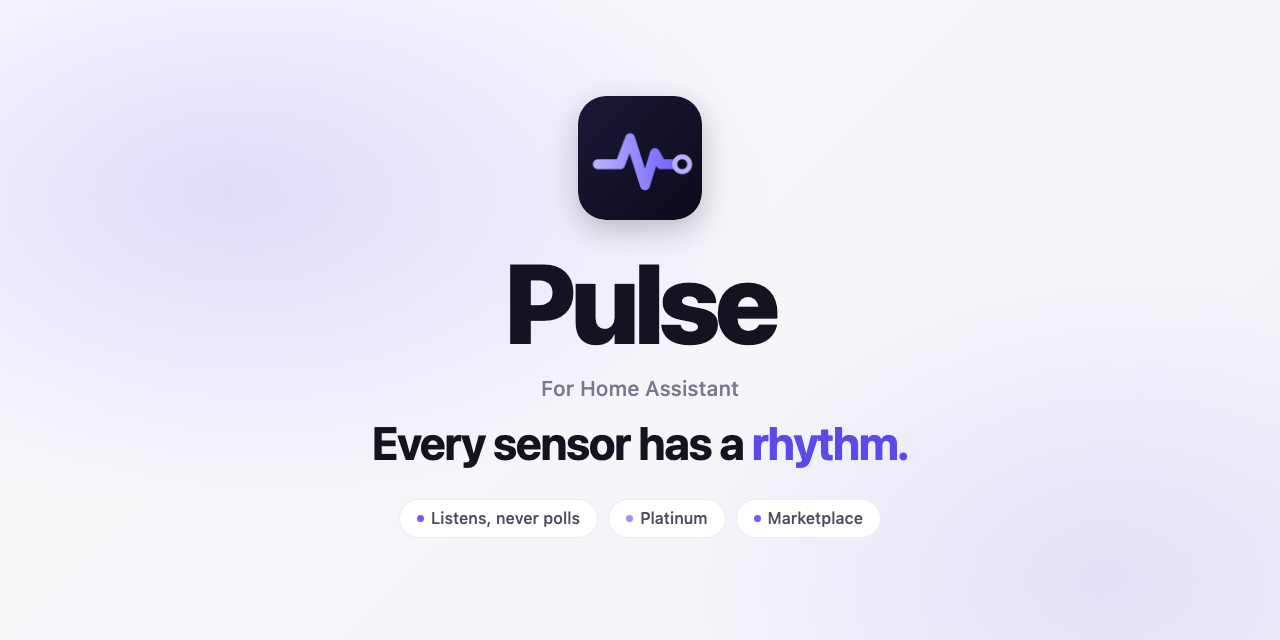
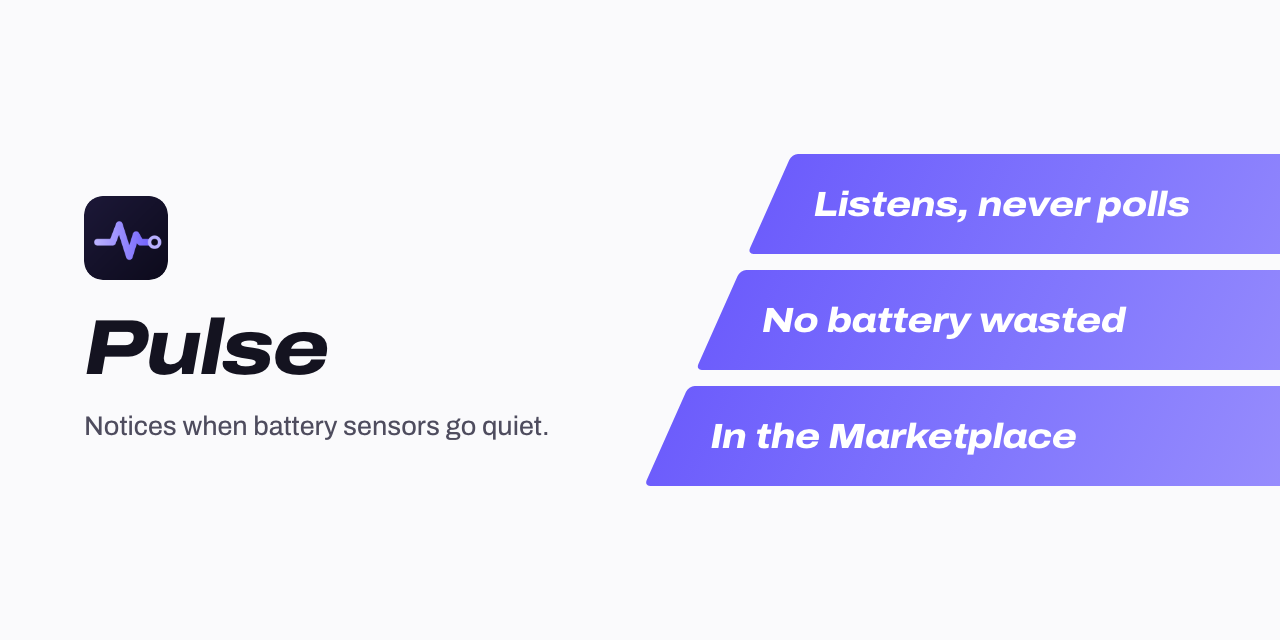
README and project page in the v2 design
Title banner with the lanes, Install and Set up as one Get started, shared
footer. The page loads theme v2 (Archivo from sh1ft-w.github.io), hero left
with the three key facts on the lanes.

Claude-Session: https://claude.ai/code/session_01TLmTtZLAvnS1BJ3w9tzxXq

diff --git a/docs/index.html b/docs/index.html
@@ -13,9 +13,9 @@
 <meta property="og:description" content="Notices when a battery device goes quiet. Before you do.">
 <meta property="og:image" content="https://sh1ft-w.github.io/pulse/images/readme-title-social.png">
 <link rel="icon" href="images/logo.png">
-<!-- Shared SH1FT-W design (tokens, glass navigation, light/dark, DE/EN, reveal) -->
-<link rel="stylesheet" href="https://sh1ft-w.github.io/theme/v1/theme.css">
-<script src="https://sh1ft-w.github.io/theme/v1/theme.js"></script>
+<!-- Shared SH1FT-W design, version 2 (tokens, Archivo, navigation, light/dark, DE/EN, the lanes) -->
+<link rel="stylesheet" href="https://sh1ft-w.github.io/theme/v2/theme.css">
+<script src="https://sh1ft-w.github.io/theme/v2/theme.js"></script>
 <style>
 /* Pulse-Palette (Violett wie im Panel); Dunkel folgt dem System oder dem Schalter oben rechts */
 :root {
@@ -26,11 +26,10 @@
   --ok: #2E9E6B; --ok-tint: rgba(46,158,107,0.12); --bad: #D64545; --warn: #D18A1C;
   --line: rgba(20,19,32,0.1); --chip: rgba(20,19,32,0.06);
   --glass: rgba(250,250,252,0.68); --glass-line: rgba(20,19,32,0.08);
-  --shadow: 0 1px 2px rgba(20,19,32,0.05), 0 12px 32px -14px rgba(20,19,32,0.2);
-  --shadow-lg: 0 2px 6px rgba(20,19,32,0.05), 0 48px 100px -36px rgba(40,30,90,0.4);
-  --mono: ui-monospace, "SF Mono", Menlo, Consolas, monospace;
-  --radius: 28px; --radius-lg: 40px; --gutter: clamp(16px, 5vw, 48px); --max: 1180px;
-  --blob-1: rgba(109,93,252,0.26); --blob-2: rgba(167,139,250,0.3); --blob-3: rgba(147,197,253,0.3);
+  --font: "Archivo", -apple-system, BlinkMacSystemFont, system-ui, sans-serif; --display: var(--font);
+  --mono: ui-monospace, "SF Mono", Menlo, monospace;
+  --lane-a: #6D5DFC; --lane-b: #A78BFA;
+  --radius: 20px; --radius-lg: 28px; --gutter: clamp(16px, 5vw, 48px); --max: 1200px;
 }
 @media (prefers-color-scheme: dark) { :root:not([data-theme="light"]) {
   --bg: #0E0D14; --bg-2: #15131E; --card: #1A1826; --card-2: #211E30;
@@ -39,9 +38,6 @@
   --ok: #5FD39A; --ok-tint: rgba(95,211,154,0.14); --bad: #FF6B6B; --warn: #F0B35A;
   --line: rgba(226,222,240,0.1); --chip: rgba(226,222,240,0.08);
   --glass: rgba(26,24,38,0.62); --glass-line: rgba(255,255,255,0.08);
-  --shadow: 0 14px 34px -16px rgba(0,0,0,0.6);
-  --shadow-lg: 0 48px 100px -36px rgba(0,0,0,0.75), 0 0 80px -20px rgba(139,124,255,0.25);
-  --blob-1: rgba(139,124,255,0.2); --blob-2: rgba(184,168,255,0.14); --blob-3: rgba(96,165,250,0.14);
 } }
 :root[data-theme="dark"] {
   --bg: #0E0D14; --bg-2: #15131E; --card: #1A1826; --card-2: #211E30;
@@ -50,9 +46,6 @@
   --ok: #5FD39A; --ok-tint: rgba(95,211,154,0.14); --bad: #FF6B6B; --warn: #F0B35A;
   --line: rgba(226,222,240,0.1); --chip: rgba(226,222,240,0.08);
   --glass: rgba(26,24,38,0.62); --glass-line: rgba(255,255,255,0.08);
-  --shadow: 0 14px 34px -16px rgba(0,0,0,0.6);
-  --shadow-lg: 0 48px 100px -36px rgba(0,0,0,0.75), 0 0 80px -20px rgba(139,124,255,0.25);
-  --blob-1: rgba(139,124,255,0.2); --blob-2: rgba(184,168,255,0.14); --blob-3: rgba(96,165,250,0.14);
 }
 
 a { color: var(--accent-ink); text-decoration: none; }
@@ -61,8 +54,8 @@ a:hover { text-decoration: underline; text-underline-offset: 3px; }
 .narrow { max-width: 760px; }
 p { margin: 0; }
 .muted { color: var(--ink-2); }
-.center { text-align: center; }
-.center .lead { margin-left: auto; margin-right: auto; max-width: 680px; }
+.center .lead { max-width: 680px; }
+body { font-family: var(--font); }
 .mono { font-family: var(--mono); font-size: 0.92em; }
 code { font-family: var(--mono); font-size: 0.9em; background: var(--chip); padding: 2px 6px; border-radius: 6px; overflow-wrap: anywhere; }
 
@@ -70,68 +63,61 @@ code { font-family: var(--mono); font-size: 0.9em; background: var(--chip); padd
 
 /* Knöpfe */
 .btn {
-  display: inline-flex; align-items: center; justify-content: center; gap: 8px; height: 48px; padding: 0 24px; border-radius: 999px;
+  display: inline-flex; align-items: center; justify-content: center; gap: 8px; height: 48px; padding: 0 24px; border-radius: 12px;
   font-family: inherit; font-size: 15px; font-weight: 600; line-height: 1; letter-spacing: -0.005em;
-  background: linear-gradient(135deg, var(--accent), var(--accent-2)); color: #fff; border: 0; cursor: pointer;
-  box-shadow: 0 12px 28px -12px var(--accent-glow); transition: transform .2s ease, filter .2s ease, box-shadow .2s ease;
+  background: var(--accent); color: var(--on-accent); border: 0; cursor: pointer;
+  box-shadow: none; transition: transform .2s ease, filter .2s ease;
 }
-.btn:hover { text-decoration: none; filter: brightness(1.05); transform: translateY(-1px); box-shadow: 0 16px 32px -12px var(--accent-glow); }
-.btn.ghost { background: var(--card); color: var(--ink); box-shadow: var(--shadow); }
+.btn:hover { text-decoration: none; filter: brightness(1.05); transform: translateY(-1px); }
+.btn.ghost { background: var(--chip); color: var(--ink); }
 .btn.small { height: 36px; padding: 0 16px; font-size: 14px; }
 
 /* Schrift */
-.eyebrow { display: inline-flex; align-items: center; gap: 8px; font-size: 13px; font-weight: 600; letter-spacing: 0.08em; text-transform: uppercase; color: var(--accent-ink); margin: 0 0 18px; }
-.eyebrow::before { content: ""; width: 8px; height: 8px; border-radius: 50%; background: var(--accent); box-shadow: 0 0 0 4px var(--accent-tint); }
-h1, h2, h3 { margin: 0; color: var(--ink); font-weight: 800; }
-h1 { font-size: clamp(46px, 8.4vw, 104px); line-height: 0.96; letter-spacing: -0.045em; }
-h2 { font-size: clamp(34px, 5.2vw, 62px); line-height: 1.02; letter-spacing: -0.04em; }
-h3 { font-size: 21px; line-height: 1.2; letter-spacing: -0.02em; font-weight: 700; }
-.grad { background: linear-gradient(135deg, var(--accent), var(--accent-2)); -webkit-background-clip: text; background-clip: text; color: transparent; }
+.eyebrow { font-size: 16px; font-weight: 650; color: var(--accent-ink); margin: 0 0 12px; }
+h1, h2, h3 { margin: 0; color: var(--ink); font-family: var(--display); font-weight: 800; text-wrap: balance; }
+h1 { font-size: clamp(44px, 6vw, 84px); line-height: 1; font-stretch: 118%; font-style: italic; letter-spacing: -0.025em; }
+h2 { font-size: clamp(30px, 3.8vw, 48px); line-height: 1.08; font-weight: 750; font-stretch: 112%; letter-spacing: -0.02em; }
+h3 { font-size: 21px; line-height: 1.2; letter-spacing: -0.02em; font-weight: 700; font-stretch: 106%; }
 .lead { font-size: clamp(19px, 2.1vw, 23px); line-height: 1.45; color: var(--ink-2); letter-spacing: -0.012em; margin: 24px 0 0; }
 .lead strong { color: var(--ink); font-weight: 600; }
 
 /* Abschnitte */
 section { padding: clamp(72px, 9vw, 128px) 0; position: relative; }
 section.tint { background: var(--bg-2); }
-.head { margin-bottom: clamp(40px, 5.5vw, 64px); }
-.split h2 { font-size: clamp(32px, 4.4vw, 56px); }
+.head { margin-bottom: clamp(40px, 5.5vw, 64px); max-width: 50em; }
 
 /* Bildrahmen */
-.shot { border-radius: var(--radius); overflow: hidden; background: var(--card); box-shadow: var(--shadow-lg); position: relative; }
-.shot::after { content: ""; position: absolute; inset: 0; border-radius: inherit; box-shadow: inset 0 0 0 1px var(--glass-line); pointer-events: none; }
+.shot { border-radius: var(--radius); overflow: hidden; background: var(--card); position: relative; }
+.shot::after { content: ""; position: absolute; inset: 0; border-radius: inherit; box-shadow: inset 0 0 0 1px var(--line); pointer-events: none; }
 .shot.lg { border-radius: var(--radius-lg); }
 .shot img { width: 100%; }
-.cap { margin-top: 18px; font-size: 15px; color: var(--ink-3); text-align: center; }
+.cap { margin-top: 18px; font-size: 15px; color: var(--ink-3); }
 
-/* Hero mit weichem Farbschleier */
-.hero { padding: clamp(64px, 10vw, 120px) 0 clamp(64px, 9vw, 112px); text-align: center; }
-.hero .glow { position: absolute; inset: -30% -10% auto; height: 90%; z-index: 0; pointer-events: none;
-  background:
-    radial-gradient(42% 38% at 22% 28%, var(--blob-1), transparent 70%),
-    radial-gradient(36% 34% at 78% 22%, var(--blob-2), transparent 70%),
-    radial-gradient(50% 40% at 50% 70%, var(--blob-3), transparent 70%);
-  filter: blur(48px); opacity: .7; }
-.hero .wrap { position: relative; z-index: 1; }
-.hero .lead { max-width: 640px; margin-left: auto; margin-right: auto; }
-.cta { display: flex; flex-wrap: wrap; gap: 12px; justify-content: center; margin-top: 36px; }
-.meta { margin-top: 22px; font-size: 14px; color: var(--ink-3); display: flex; flex-wrap: wrap; gap: 8px 14px; justify-content: center; align-items: center; }
-.pill { display: inline-flex; align-items: center; gap: 6px; padding: 5px 12px; border-radius: 999px; background: var(--card); box-shadow: var(--shadow); font-weight: 600; color: var(--ink-2); font-size: 13px; }
+/* Hero: text on the left, the lanes on the right, the overview screenshot as a full-width stage below */
+.hero { padding: clamp(48px, 7vw, 96px) 0 clamp(56px, 7vw, 96px); overflow: hidden; }
+.hero-top { display: grid; grid-template-columns: minmax(0, 1.15fr) minmax(0, 1fr); gap: clamp(24px, 4vw, 64px); align-items: center; }
+.hero .mark { display: block; width: 64px; height: 64px; border-radius: 15px; margin-bottom: 26px; }
+.hero .lead { max-width: 34em; }
+.hero .s-lanes { margin-right: calc(-1 * var(--gutter) - 14vw); }
+.s-track b { color: #fff; font: italic 800 clamp(18px, 2.1vw, 30px)/1 var(--font); font-stretch: 116%; letter-spacing: -0.015em; white-space: nowrap; }
+.cta { display: flex; flex-wrap: wrap; gap: 12px; margin-top: 36px; }
+.meta { margin-top: 22px; font-size: 14px; color: var(--ink-3); display: flex; flex-wrap: wrap; gap: 8px 14px; align-items: center; }
+.pill { display: inline-flex; align-items: center; gap: 6px; padding: 5px 12px; border-radius: 8px; background: var(--chip); font-weight: 600; color: var(--ink-2); font-size: 13px; }
 .pill i { width: 7px; height: 7px; border-radius: 50%; background: var(--ok); display: inline-block; }
 .hero-shot { margin-top: clamp(48px, 7vw, 88px); }
-.hero-shot .shot { box-shadow: 0 2px 6px rgba(20,19,32,0.05), 0 80px 160px -60px var(--accent-glow), var(--shadow-lg); }
 
 /* Laufband mit Gerätearten */
 .marquee { margin-top: clamp(40px, 6vw, 72px); overflow: hidden; -webkit-mask-image: linear-gradient(90deg, transparent, #000 12%, #000 88%, transparent); mask-image: linear-gradient(90deg, transparent, #000 12%, #000 88%, transparent); }
 .marquee .track { display: flex; gap: 10px; width: max-content; animation: slide 44s linear infinite; }
 .marquee:hover .track { animation-play-state: paused; }
 @keyframes slide { to { transform: translateX(-50%); } }
-.chip { padding: 9px 15px; border-radius: 999px; background: var(--card); box-shadow: 0 1px 2px rgba(20,19,32,0.05); font-size: 14px; font-weight: 500; color: var(--ink-2); white-space: nowrap; }
+.chip { padding: 9px 15px; border-radius: 8px; background: var(--card); border: 1px solid var(--line); font-size: 14px; font-weight: 500; color: var(--ink-2); white-space: nowrap; }
 
 /* Neu dabei: Bento */
 .bento { display: grid; grid-template-columns: repeat(12, 1fr); gap: 16px; }
-.b { background: var(--card); border-radius: var(--radius); box-shadow: var(--shadow); overflow: hidden; display: flex; flex-direction: column; position: relative; min-width: 0; }
+.b { background: var(--card); border-radius: var(--radius); border: 1px solid var(--line); overflow: hidden; display: flex; flex-direction: column; position: relative; min-width: 0; }
 .b .txt { padding: 26px 28px 28px; }
-.b .k { display: inline-block; font-size: 12px; font-weight: 600; letter-spacing: 0.06em; text-transform: uppercase; color: var(--accent-ink); background: var(--accent-tint); padding: 4px 10px; border-radius: 999px; margin-bottom: 14px; }
+.b .k { display: inline-block; font-size: 13px; font-weight: 600; color: var(--accent-ink); background: var(--accent-tint); padding: 4px 10px; border-radius: 6px; margin-bottom: 14px; }
 .b .k.ok { color: var(--ok); background: var(--ok-tint); }
 .b h3 { margin-bottom: 8px; }
 .b p { color: var(--ink-2); font-size: 16px; }
@@ -140,7 +126,7 @@ section.tint { background: var(--bg-2); }
 .b.wide { display: grid; grid-template-columns: 1.05fr 1fr; }
 .b.wide .pic { align-items: flex-end; padding: 28px 28px 0; }
 .b.wide .pic img { max-width: 360px; border-radius: 22px 22px 0 0; box-shadow: 0 -10px 30px -12px rgba(0,0,0,.28); }
-.b .ico { width: 44px; height: 44px; border-radius: 14px; background: var(--accent-tint); color: var(--accent-ink); display: grid; place-items: center; margin-bottom: 18px; }
+.b .ico { width: 44px; height: 44px; border-radius: 10px; background: var(--accent-tint); color: var(--accent-ink); display: grid; place-items: center; margin-bottom: 18px; }
 .b .ico svg { width: 22px; height: 22px; }
 .b.band .txt { display: flex; gap: 24px; align-items: flex-start; }
 .b.band .ico { flex: none; margin: 4px 0 0; }
@@ -149,7 +135,7 @@ section.tint { background: var(--bg-2); }
 
 /* Rhythmusleiste als Illustration */
 .strip { margin-top: 32px; display: grid; gap: 10px; }
-.strip .row { display: grid; grid-template-columns: 150px 1fr auto; gap: 14px; align-items: center; background: var(--card); border-radius: 18px; padding: 14px 18px; box-shadow: var(--shadow); font-size: 14px; }
+.strip .row { display: grid; grid-template-columns: 150px 1fr auto; gap: 14px; align-items: center; background: var(--card); border-radius: 14px; padding: 14px 18px; border: 1px solid var(--line); font-size: 14px; }
 .strip .name { font-weight: 600; color: var(--ink); overflow: hidden; text-overflow: ellipsis; white-space: nowrap; }
 .strip .bar { display: flex; align-items: center; height: 18px; min-width: 0; }
 .strip .beats { height: 18px; flex: 1; background: repeating-linear-gradient(90deg, var(--accent) 0 2px, transparent 2px 7px); border-radius: 2px; opacity: .85; }
@@ -162,7 +148,7 @@ section.tint { background: var(--bg-2); }
 
 /* Zahlen */
 .facts { display: grid; grid-template-columns: repeat(3, 1fr); gap: 16px; margin-top: clamp(48px, 6vw, 80px); }
-.fact { background: var(--card); border-radius: var(--radius); padding: 28px; box-shadow: var(--shadow); }
+.fact { background: var(--card); border-radius: var(--radius); padding: 28px; border: 1px solid var(--line); }
 .fact b { display: block; font-size: clamp(40px, 5vw, 56px); line-height: 1; font-weight: 800; letter-spacing: -0.045em; color: var(--accent-ink); }
 .fact span { display: block; margin-top: 12px; color: var(--ink-2); font-size: 16px; line-height: 1.45; }
 
@@ -172,10 +158,11 @@ section.tint { background: var(--bg-2); }
 .split.flip > :first-child { order: 2; }
 .split.even { grid-template-columns: 1fr 1fr; }
 .phone { max-width: 340px; margin: 0 auto; }
+.phone .cap { text-align: center; }
 
 /* Statusliste */
 .status { list-style: none; padding: 0; margin: 0; display: grid; gap: 10px; }
-.status li { display: grid; grid-template-columns: 112px 1fr; gap: 14px; align-items: baseline; padding: 14px 18px; background: var(--card); border-radius: 18px; box-shadow: var(--shadow); }
+.status li { display: grid; grid-template-columns: 112px 1fr; gap: 14px; align-items: baseline; padding: 14px 18px; background: var(--card); border-radius: 14px; border: 1px solid var(--line); }
 .status b { font-weight: 700; }
 .status .ok { color: var(--ok); }
 .status .warn { color: var(--warn); }
@@ -190,16 +177,16 @@ section.tint { background: var(--bg-2); }
 
 /* Drei Kacheln */
 .trio { display: grid; grid-template-columns: repeat(3, 1fr); gap: 16px; }
-.tile { background: var(--card); border-radius: var(--radius); padding: 28px; box-shadow: var(--shadow); min-width: 0; }
+.tile { background: var(--card); border-radius: var(--radius); padding: 28px; border: 1px solid var(--line); min-width: 0; }
 .tile h3 { margin-bottom: 8px; }
 .tile p { color: var(--ink-2); font-size: 16px; }
-.tile .ico { width: 48px; height: 48px; border-radius: 16px; background: var(--accent-tint); color: var(--accent-ink); display: grid; place-items: center; margin-bottom: 18px; }
+.tile .ico { width: 48px; height: 48px; border-radius: 10px; background: var(--accent-tint); color: var(--accent-ink); display: grid; place-items: center; margin-bottom: 18px; }
 .tile .ico svg { width: 24px; height: 24px; }
 .tile pre { margin: 16px 0 0; padding: 14px 16px; border-radius: 16px; background: var(--card-2); font: 500 13px/1.5 var(--mono); color: var(--ink); overflow-x: auto; }
 
 /* Installation */
 .install { display: grid; grid-template-columns: 1.2fr 1fr; gap: 20px; }
-.panel { background: var(--card); border-radius: var(--radius); padding: clamp(28px, 4vw, 44px); box-shadow: var(--shadow); min-width: 0; }
+.panel { background: var(--card); border-radius: var(--radius); padding: clamp(28px, 4vw, 44px); border: 1px solid var(--line); min-width: 0; }
 .panel h3 { margin-bottom: 6px; }
 .steps { list-style: none; padding: 0; margin: 28px 0 0; display: grid; gap: 20px; counter-reset: s; }
 .steps li { position: relative; padding-left: 52px; color: var(--ink-2); }
@@ -207,7 +194,7 @@ section.tint { background: var(--bg-2); }
 .steps li b { color: var(--ink); font-weight: 600; }
 .repo { margin-top: 10px; display: flex; align-items: center; gap: 8px; background: var(--chip); border-radius: 18px; padding: 8px 8px 8px 18px; }
 .repo code { flex: 1; min-width: 0; font: 500 15px/1.4 var(--mono); color: var(--ink); background: none; padding: 0; overflow-wrap: anywhere; }
-.copy { flex: none; height: 34px; padding: 0 14px; border-radius: 999px; border: 0; background: var(--card); color: var(--ink); font-family: inherit; font-size: 13px; font-weight: 600; cursor: pointer; box-shadow: 0 1px 2px rgba(20,19,32,0.1); }
+.copy { flex: none; height: 34px; padding: 0 14px; border-radius: 8px; border: 1px solid var(--line); background: var(--card); color: var(--ink); font-family: inherit; font-size: 13px; font-weight: 600; cursor: pointer; }
 .my { margin-top: 26px; }
 .my img { display: inline-block; height: 40px; width: auto; }
 .req { list-style: none; padding: 0; margin: 22px 0 0; }
@@ -215,7 +202,7 @@ section.tint { background: var(--bg-2); }
 .req li:first-child { border-top: 0; padding-top: 6px; }
 .req .name { color: var(--ink); font-weight: 600; flex: 1; }
 .req .name .muted { font-weight: 400; }
-.tag { flex: none; font-size: 12px; font-weight: 600; letter-spacing: 0.04em; text-transform: uppercase; padding: 4px 10px; border-radius: 999px; background: var(--accent-tint); color: var(--accent-ink); }
+.tag { flex: none; font-size: 13px; font-weight: 600; padding: 4px 10px; border-radius: 6px; background: var(--accent-tint); color: var(--accent-ink); }
 .tag.opt { background: var(--chip); color: var(--ink-3); }
 .note { margin-top: 20px; font-size: 14px; color: var(--ink-3); }
 .manual { grid-column: 1 / -1; }
@@ -227,8 +214,7 @@ section.tint { background: var(--bg-2); }
 .rule { height: 1px; background: var(--line); margin: 0 0 28px; }
 
 /* Abschluss, Fuß */
-.closing { text-align: center; }
-.closing p:not(.eyebrow) { font-size: clamp(19px, 2.1vw, 23px); line-height: 1.5; color: var(--ink-2); max-width: 720px; margin: 0 auto; letter-spacing: -0.01em; }
+.closing p:not(.eyebrow) { font-size: clamp(19px, 2.1vw, 23px); line-height: 1.5; color: var(--ink-2); max-width: 720px; letter-spacing: -0.01em; }
 footer { border-top: 1px solid var(--line); padding: 44px 0 56px; font-size: 14px; color: var(--ink-3); }
 footer .wrap { display: flex; flex-wrap: wrap; gap: 20px 32px; align-items: center; }
 footer nav { display: flex; flex-wrap: wrap; gap: 8px 26px; }
@@ -239,7 +225,8 @@ footer .fine { flex-basis: 100%; }
 
 /* Schmal */
 @media (max-width: 960px) {
-  .split, .split.flip, .split.even, .install { grid-template-columns: 1fr; }
+  .split, .split.flip, .split.even, .install, .hero-top { grid-template-columns: 1fr; }
+  .hero .s-lanes { margin: 8px calc(-1 * var(--gutter) - 8vw) 0 44px; }
   .split.flip > :first-child { order: 0; }
   .three, .trio { grid-template-columns: 1fr; }
   .b.s4, .b.s8 { grid-column: span 6; }
@@ -248,7 +235,8 @@ footer .fine { flex-basis: 100%; }
 }
 @media (max-width: 640px) {
   body { font-size: 16px; }
-  :root { --radius: 24px; --radius-lg: 28px; }
+  h1 { font-size: clamp(34px, 10.5vw, 44px); }
+  .s-track b { font-size: 15px; }
   .navwrap { top: calc(var(--sh1ftw-offset, 0px) + 8px); }
   .nav { gap: 10px; }
   .nav .iconbtn { margin-left: auto; }
@@ -272,7 +260,7 @@ footer .fine { flex-basis: 100%; }
   .copy { margin-left: auto; }
 }
 @media (prefers-reduced-motion: reduce) {
-  .marquee .track { animation: none; flex-wrap: wrap; width: auto; justify-content: center; }
+  .marquee .track { animation: none; flex-wrap: wrap; width: auto; }
   .marquee { -webkit-mask-image: none; mask-image: none; }
 }
 </style>
@@ -300,19 +288,27 @@ footer .fine { flex-basis: 100%; }
 </div>
 
 <section class="hero" id="top">
-  <div class="glow" aria-hidden="true"></div>
   <div class="wrap">
-    <p class="eyebrow reveal"><span class="en">For Home Assistant</span><span class="de">Für Home Assistant</span></p>
-    <h1 class="reveal d1"><span class="en">Every sensor<br>has a <span class="grad">rhythm.</span></span><span class="de">Jeder Sensor<br>hat einen <span class="grad">Takt.</span></span></h1>
-    <p class="lead reveal d2"><span class="en">Pulse learns how often each battery device reports and <strong>notices when one goes quiet</strong>. It only listens, never polls. No battery wasted, no automation left guessing.</span><span class="de">Pulse lernt, wie oft sich jedes Batteriegerät meldet, und <strong>merkt, wenn eines verstummt</strong>. Es hört nur zu und fragt nie ab. Keine Batterie verschwendet, keine Automation im Blindflug.</span></p>
-    <div class="cta reveal d3">
-      <a class="btn" href="https://my.home-assistant.io/redirect/hacs_repository/?owner=SH1FT-W&amp;repository=pulse&amp;category=integration"><span class="en">Open in the Marketplace</span><span class="de">Im Marketplace öffnen</span></a>
-      <a class="btn ghost" href="https://github.com/SH1FT-W/pulse#readme"><span class="en">Read the docs</span><span class="de">Zur Dokumentation</span></a>
+    <div class="hero-top">
+      <div>
+        <img class="mark" src="images/logo.png" alt="" width="64" height="64">
+        <h1><span class="en">Every sensor has a rhythm.</span><span class="de">Jeder Sensor hat einen Takt.</span></h1>
+        <p class="lead reveal d2"><span class="en">Pulse learns how often each battery device reports and <strong>notices when one goes quiet</strong>. It only listens, never polls. No battery wasted, no automation left guessing.</span><span class="de">Pulse lernt, wie oft sich jedes Batteriegerät meldet, und <strong>merkt, wenn eines verstummt</strong>. Es hört nur zu und fragt nie ab. Keine Batterie verschwendet, keine Automation im Blindflug.</span></p>
+        <div class="cta reveal d3">
+          <a class="btn" href="https://my.home-assistant.io/redirect/hacs_repository/?owner=SH1FT-W&amp;repository=pulse&amp;category=integration"><span class="en">Open in the Marketplace</span><span class="de">Im Marketplace öffnen</span></a>
+          <a class="btn ghost" href="https://github.com/SH1FT-W/pulse#readme"><span class="en">Read the docs</span><span class="de">Zur Dokumentation</span></a>
+        </div>
+        <p class="meta reveal d3">
+          <span class="pill"><i></i><span id="pulse-version">Version 26.11.4</span></span>
+          <span class="en">Home Assistant 2026.9 or newer &middot; Free and open source</span><span class="de">Home Assistant 2026.9 oder neuer &middot; Kostenlos und quelloffen</span>
+        </p>
+      </div>
+      <div class="s-lanes" aria-hidden="true">
+        <div class="s-lane"><div class="s-track"><b><span class="en">Listens, never polls</span><span class="de">Hört zu, fragt nie ab</span></b></div></div>
+        <div class="s-lane"><div class="s-track"><b><span class="en">No battery wasted</span><span class="de">Keine Batterie verschwendet</span></b></div></div>
+        <div class="s-lane"><div class="s-track"><b><span class="en">In the Marketplace</span><span class="de">Im Marketplace</span></b></div></div>
+      </div>
     </div>
-    <p class="meta reveal d3">
-      <span class="pill"><i></i><span id="pulse-version">Version 26.11.4</span></span>
-      <span class="en">Home Assistant 2026.9 or newer &middot; Free and open source</span><span class="de">Home Assistant 2026.9 oder neuer &middot; Kostenlos und quelloffen</span>
-    </p>
     <div class="hero-shot reveal d3">
       <div class="shot lg">
         <picture class="en">

diff --git a/README.md b/README.md
@@ -2,14 +2,14 @@
 
 <picture>
   <source media="(prefers-color-scheme: dark)" srcset="docs/images/readme-title-dark.webp" />
-  <img src="docs/images/readme-title-light.webp" alt="Pulse: Every sensor has a rhythm." />
+  <img src="docs/images/readme-title-light.webp" alt="Pulse: notices when battery sensors go quiet. Listens, never polls. No battery wasted. In the Marketplace." />
 </picture>
 
 [![Version](https://img.shields.io/badge/dynamic/json?url=https%3A%2F%2Fraw.githubusercontent.com%2FSH1FT-W%2Fpulse%2Fmain%2Fcustom_components%2Fpulse%2Fmanifest.json&query=%24.version&label=version&style=flat-square&color=6D5DFC&labelColor=0E0D14)](https://github.com/SH1FT-W/pulse/releases/latest)
 [![Home Assistant](https://img.shields.io/badge/Home%20Assistant-2026.9%2B-6D5DFC?style=flat-square&labelColor=0E0D14&logo=homeassistant&logoColor=white)](https://www.home-assistant.io)
 [![Marketplace](https://img.shields.io/badge/Marketplace-default-6D5DFC?style=flat-square&labelColor=0E0D14)](https://hacs.xyz)
 
-<a href="https://sh1ft-w.github.io/pulse"><b>Website</b></a>&emsp;<a href="#install">Install</a>&emsp;<a href="#set-up">Set up</a>&emsp;<a href="#notifications">Notifications</a>&emsp;<a href="#entities-events-and-actions">Entities</a>&emsp;<a href="CHANGELOG.md">Changelog</a>
+<a href="https://sh1ft-w.github.io/pulse"><b>Website</b></a>&emsp;<a href="#get-started">Get started</a>&emsp;<a href="#notifications">Notifications</a>&emsp;<a href="#entities-events-and-actions">Entities</a>&emsp;<a href="CHANGELOG.md">Changelog</a>
 
 </div>
 
@@ -39,30 +39,18 @@ Every status comes with a reason in plain words: *Silent for 5 days. Usually rep
 
 **New in 26.11:** remind later in a week or a month, and you choose how fast an unreachable important device is reported. Every change is in the [changelog](CHANGELOG.md).
 
-<a id="install"></a>
-## Install
+<a id="get-started"></a><a id="install"></a><a id="set-up"></a>
+## Get started
 
 [![Open in the Marketplace](https://my.home-assistant.io/badges/hacs_repository.svg)](https://my.home-assistant.io/redirect/hacs_repository/?owner=SH1FT-W&repository=pulse&category=integration)
 
-Search for **Pulse** under **Settings > Marketplace** (called HACS before Home Assistant 2026.11), download it and restart Home Assistant.
-
-<details>
-<summary>Install by hand</summary>
-
-1. Download the [latest release](https://github.com/SH1FT-W/pulse/releases/latest).
-2. Copy `custom_components/pulse` into `/config/custom_components/` and restart Home Assistant.
-
-</details>
-
-<a id="set-up"></a>
-## Set up
-
 Pulse needs Home Assistant 2026.9 or newer and nothing else. The Companion app (notifications), Zigbee2MQTT (signs of life) and the recorder (history and forecasts) are optional.
 
-1. **Add the integration.** **Settings > Devices & services > Add integration > Pulse**. One click, Pulse finds your devices itself.
-2. **Open Pulse in the sidebar.** The welcome sheet offers one switch for Zigbee signs of life (see [Zigbee2MQTT](#zigbee2mqtt)). Admins can change everything, other users see the panel read only.
-3. **Mark what matters.** A star makes a device important (tighter limits, see above). Ignore what you never want to hear about.
-4. **Send a test notification** under **Notifications** and check the recipients.
+1. **Install it.** Search for **Pulse** under **Settings > Marketplace** (called HACS before Home Assistant 2026.11), download it and restart Home Assistant.
+2. **Add the integration.** **Settings > Devices & services > Add integration > Pulse**. One click, Pulse finds your devices itself.
+3. **Open Pulse in the sidebar.** The welcome sheet offers one switch for Zigbee signs of life (see [Zigbee2MQTT](#zigbee2mqtt)). Admins can change everything, other users see the panel read only.
+4. **Mark what matters.** A star makes a device important (tighter limits, see above). Ignore what you never want to hear about.
+5. **Send a test notification** under **Notifications** and check the recipients.
 
 Which devices Pulse watches:
 
@@ -71,6 +59,14 @@ Which devices Pulse watches:
 - **Anything else by hand** under **Settings > Added by hand > Add device**: cameras, speakers, TVs, robot vacuums, a NAS. A connectivity sensor or a router's device tracker (UniFi, FRITZ!Box, Nmap) decides whether it is there, otherwise its main entities, and it is gone only while all of them are unavailable.
 
 Pulse speaks English, German, French, Spanish and Dutch.
+
+<details>
+<summary>Install by hand</summary>
+
+1. Download the [latest release](https://github.com/SH1FT-W/pulse/releases/latest).
+2. Copy `custom_components/pulse` into `/config/custom_components/` and restart Home Assistant.
+
+</details>
 
 <a id="notifications"></a>
 ## Notifications
@@ -218,3 +214,11 @@ dev/deploy-test.sh                                           # copy into a Docke
 [Apache 2.0](LICENSE). Copyright 2026 SH1FT-W.
 
 <sub>Pulse is an independent project and is not affiliated with Home Assistant or Nabu Casa.</sub>
+
+<br/>
+
+<div align="center">
+<a href="https://sh1ft-w.github.io"><img src="https://sh1ft-w.github.io/readme/footer.png" width="640" alt="All SH1FT-W projects"></a>
+<br/>
+<sub>More open source for Home Assistant and the Mac at <a href="https://sh1ft-w.github.io">sh1ft-w.github.io</a></sub>
+</div>
